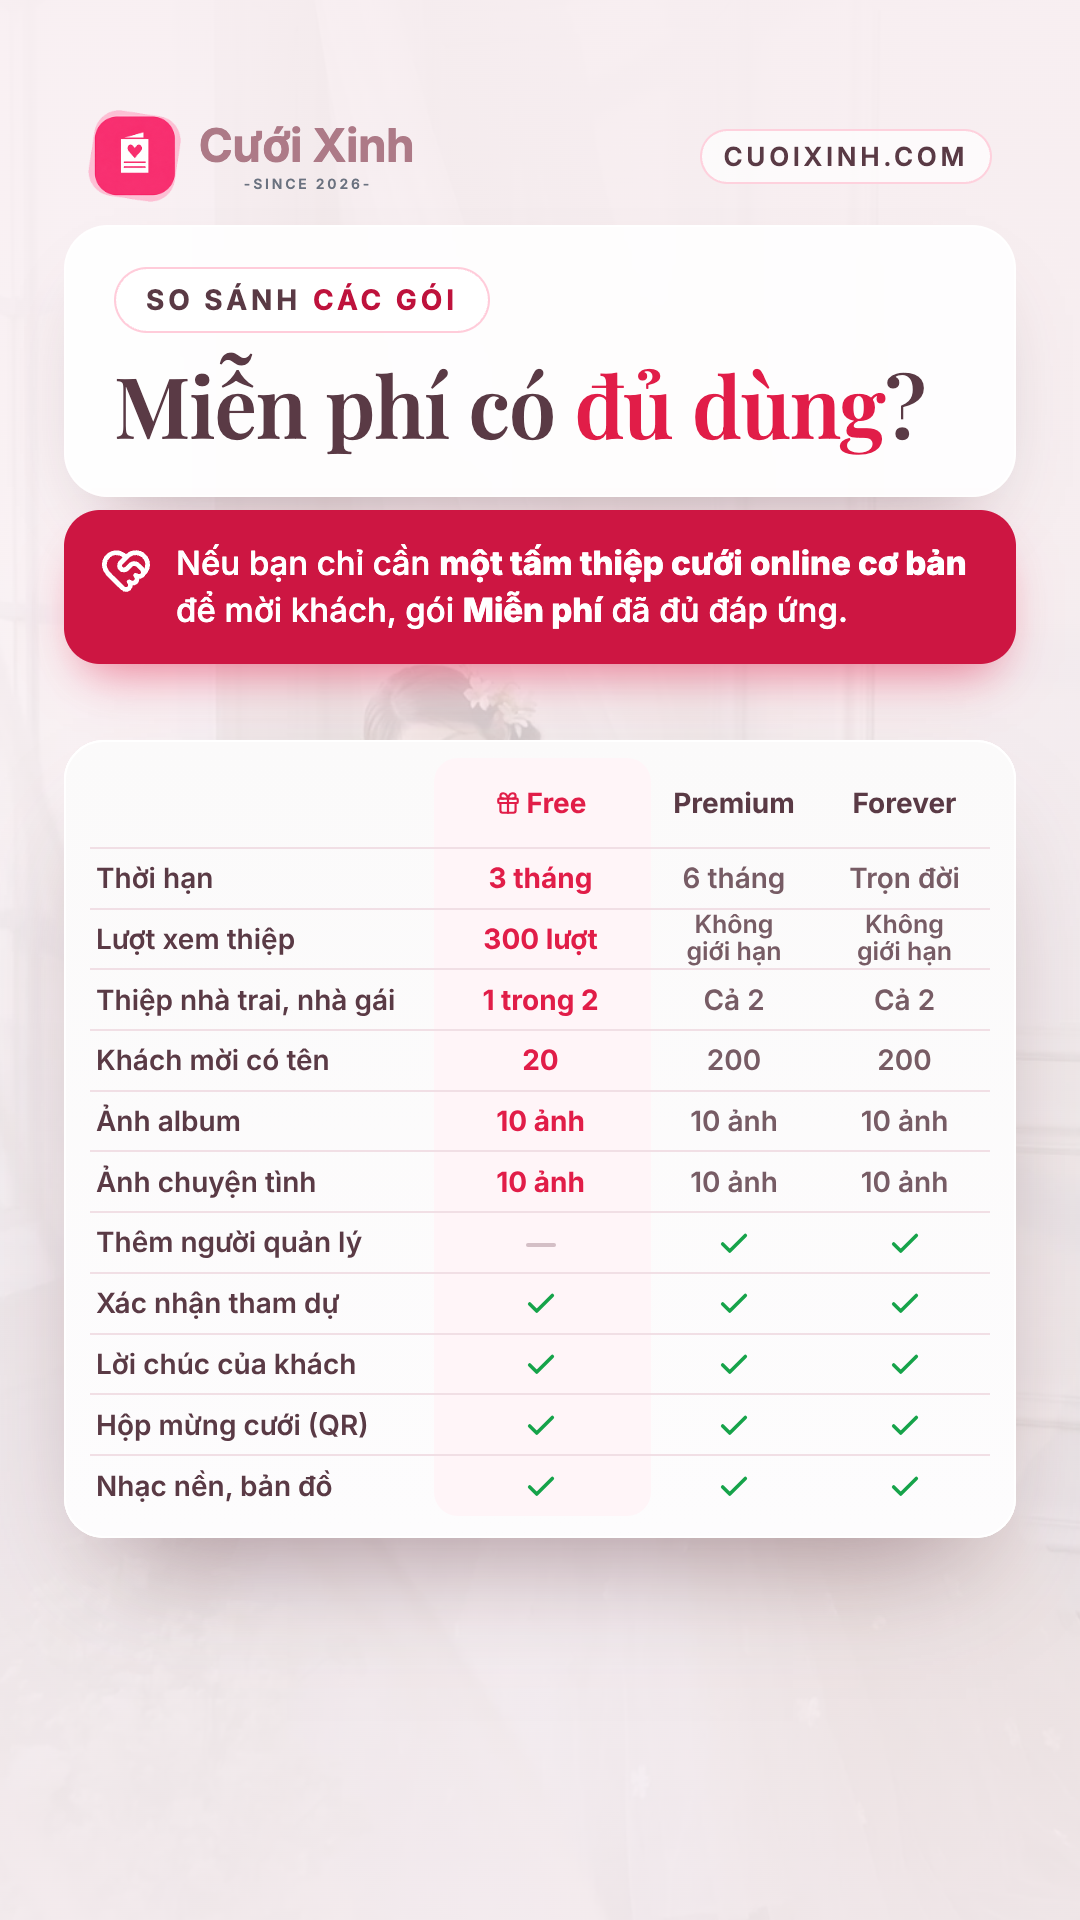
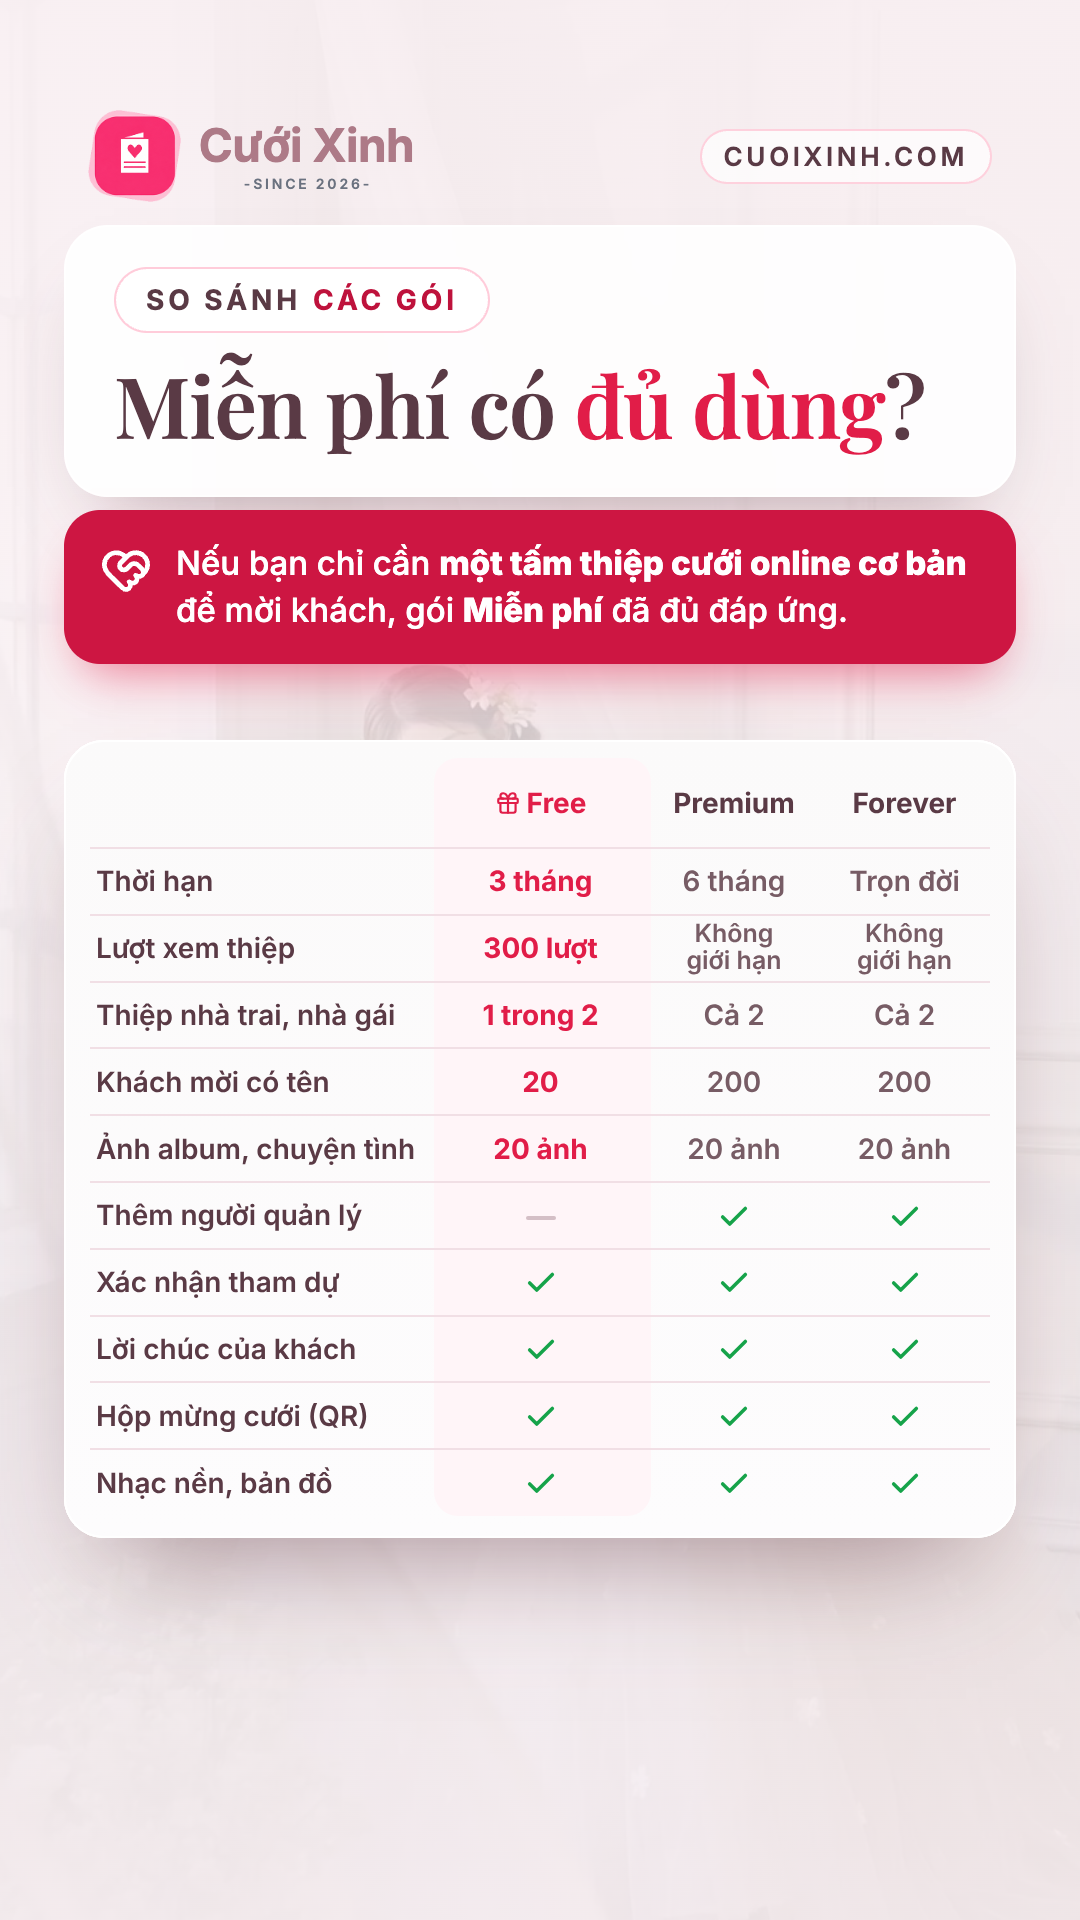
Bảng so sánh gói: gộp ảnh album + chuyện tình thành 20 ảnh
Claude-Session: https://claude.ai/code/session_01JatATh3B6cHJaVvWphFjdg

diff --git a/core/payment.js b/core/payment.js
@@ -1420,8 +1420,8 @@
     { label: "Thiệp nhà trai, nhà gái", free: "1 trong 2", paid: "Cả 2" },
     // Gói trả phí: tổng cả hai thiệp (mỗi bên maxPerSide khách).
     { label: "Khách mời có tên", free: "20", paid: String(CONFIG.guestImport.maxPerSide * 2) },
-    { label: "Ảnh album", free: "10 ảnh", paid: "10 ảnh" },
-    { label: "Ảnh chuyện tình", free: "10 ảnh", paid: "10 ảnh" },
+    // Tổng trần của trình chỉnh sửa: 10 ảnh album + 10 mốc chuyện tình (mỗi mốc 1 ảnh).
+    { label: "Ảnh album, chuyện tình", free: "20 ảnh", paid: "20 ảnh" },
     { label: "Thêm người quản lý", free: false, paid: true },
     { label: "Xác nhận tham dự", free: true, paid: true },
     { label: "Lời chúc của khách", free: true, paid: true },
